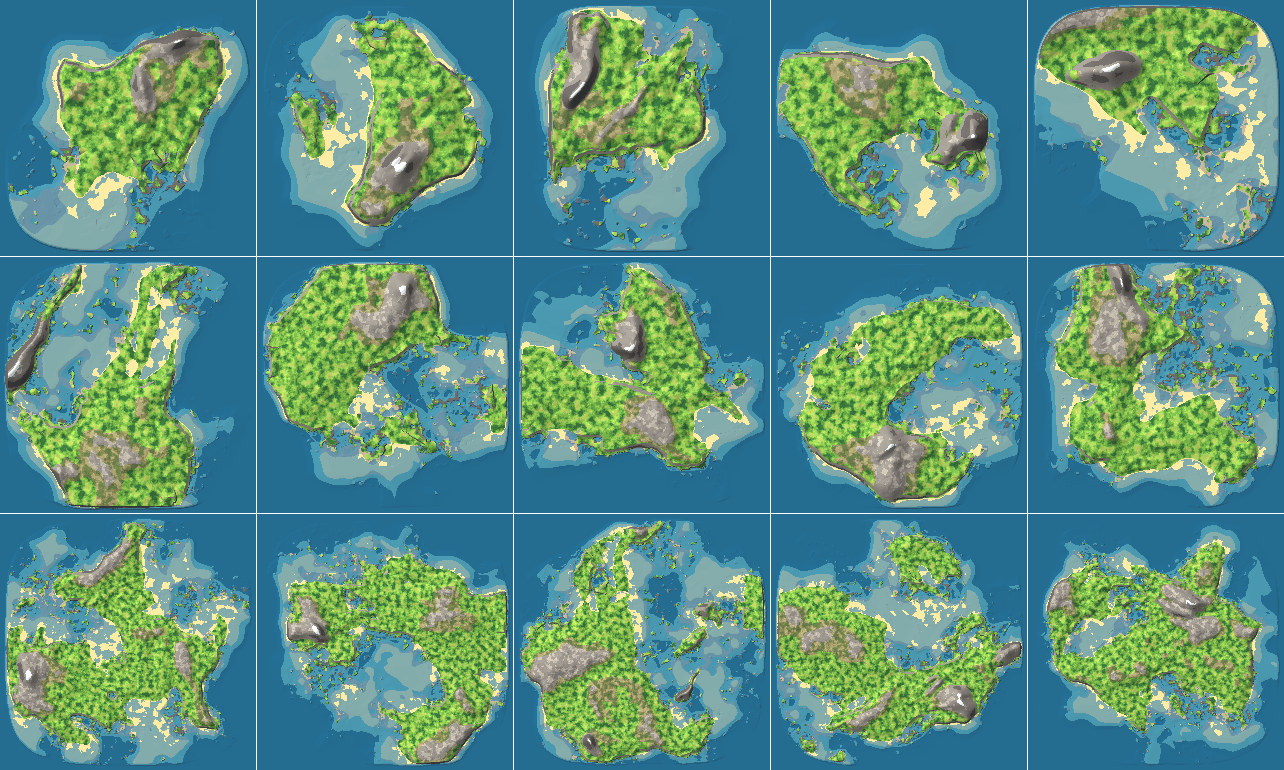
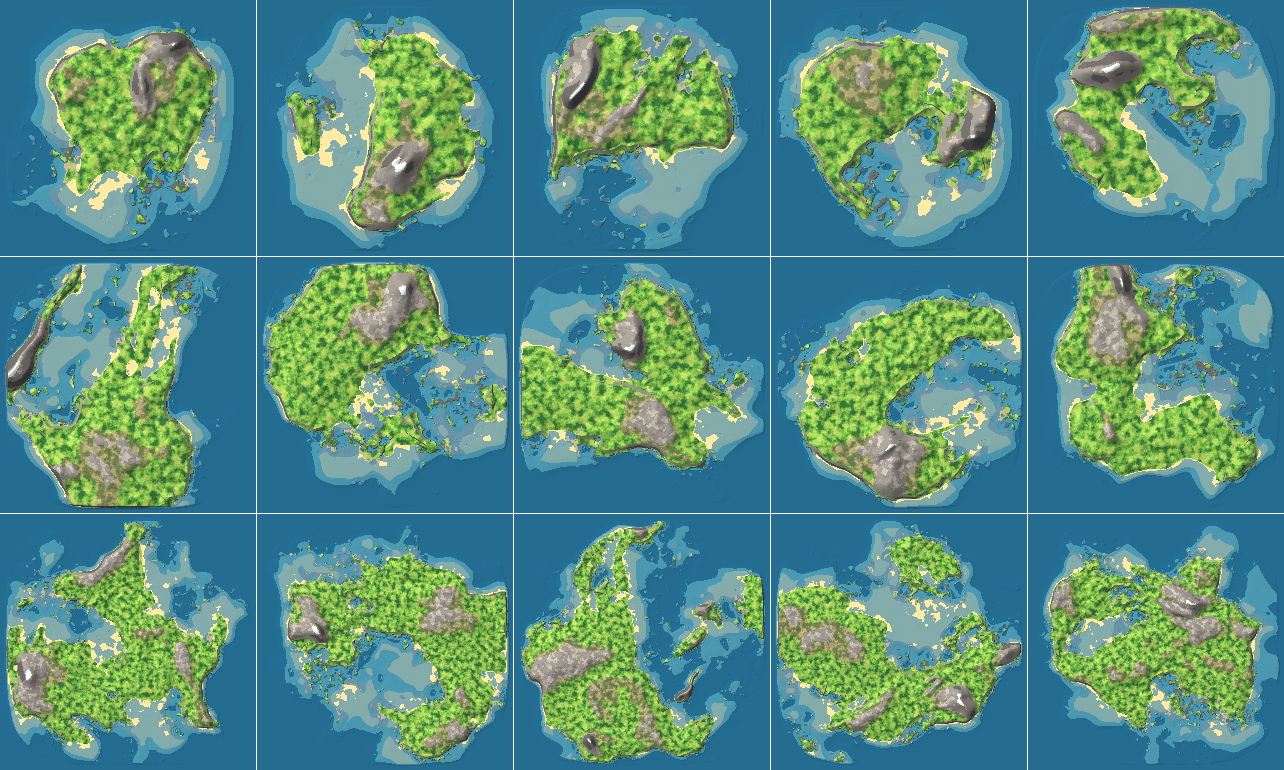
Keep the falloff ring on the map, and give every sea a real bottom
The falloff ring is warped by the same displacement field as the
terrain, whose dominant component is over a kilometre long. On a map
too small for the landmass field to lobe, that displacement does not
bend the ring — it moves it, sometimes off the map, and the coast on
that side ends up drawn by the rim in a line along the frame. The
bend's amplitude and the radius wander's outward allowance now close
on such maps, in the same landmass-cycles terms the land share tapers
in, and the falloff's damping is squared so a field that runs high
cannot out-shout it and camp in the ramp.

The depth mapping also gains a median-anchored floor, mirroring the
lowland one: a minority of seeds run flat just below where the sea
lands in the field, and came out as one endless bright shelf speckled
with sand. Their sea median is now held deep enough that open water
always reads as open water.

diff --git a/src/terrain.rs b/src/terrain.rs
@@ -115,6 +115,18 @@ const SNOW_LINE: f32 = 112.0;
 /// that open water reads as open water rather than as one endless shelf.
 const DEEP_FRACTION: f32 = 0.18;
 
+/// Depth the middle of the sea is guaranteed to reach, in metres — the mirror
+/// of [`LOWLAND_FLOOR`], on the other side of the waterline. A minority of
+/// seeds run flat just *below* where the sea lands in the field, and the deep
+/// anchor cannot save them: it pins one point far down while the whole middle
+/// of the distribution sits centimetres under the surface, so the map comes
+/// out one endless bright shelf speckled with sand, with the falloff's rim
+/// embossed round the edge of it. Set well past the last of the shallow-water
+/// colours, not merely at their edge — a median pinned exactly on the colour
+/// threshold leaves half the sea painted as shallows — so the middle of the
+/// sea always reads as open water.
+const SHALLOWS_FLOOR: f32 = 6.5;
+
 /// Height the middle of the land is guaranteed to reach, in metres. A minority
 /// of seeds put nearly all their land within a metre or two of sea level — the
 /// field happens to run flat just above where the sea lands in it — and the
@@ -959,9 +971,26 @@ impl TerrainGenerator {
         // land usually does reach the falloff: at 0.55 the field put barely a
         // lobe on a 768 m island's outline, and every small map read as the
         // same rounded square.
-        let bend = drift * FEATURE_SCALE * 0.7;
+        // The bend's amplitude shrinks on maps the landmass field cannot
+        // break up — the same regime the land share tapers in, measured the
+        // same way. The warp's dominant component is over a kilometre long,
+        // and on a map that small a displacement of full amplitude is not a
+        // lobe on the ring, it is a translation of the whole ring, off the
+        // edge of the map — and the coast on that side ends up drawn by the
+        // rim in a straight line along the frame. On larger maps the same
+        // displacement is a lobe, and is most of what un-squircles them, so
+        // it fades back in as soon as the map can afford it.
+        let cycles = self.half_extent * 2.0 / CONTINENT_SCALE;
+        let room = smoothstep(1.1, 1.55, cycles);
+        let bend = drift * FEATURE_SCALE * 0.7 * (0.25 + 0.75 * room);
         let reach = 1.0 + 0.7 * self.continent.fbm(n.x * 0.85 - 12.4, n.y * 0.85 + 9.8, 2);
-        let shaped = self.squircle(wx + bend.x, wz + bend.y, 2.2) / reach.clamp(0.72, 1.35);
+        // The clamp is asymmetric: the radius may pull well in, carving deep
+        // bays out of the ring, but only push a little out — pushed further,
+        // the ramp ends up at the rim and the rim ends up drawing the coast.
+        // Like the bend, the outward allowance closes almost entirely on the
+        // one-blob maps.
+        let shaped =
+            self.squircle(wx + bend.x, wz + bend.y, 2.2) / reach.clamp(0.72, 1.0 + 0.15 * room);
 
         // Spread over a wide ramp and pushed down gently. A short, hard falloff
         // drops the ground into the sea too fast, and the slope rule then paints
@@ -973,13 +1002,20 @@ impl TerrainGenerator {
         let edge = smoothstep(0.72, 1.12, shaped);
 
         // The rim, in unwarped coordinates and narrower still, so that whatever
-        // the warp does the very edge of the map is open sea.
+        // the warp does the very edge of the map is open sea. Not wider: the
+        // cells it pushes down land in the quantiles every fit below the
+        // waterline reads, and widening it once flattened the whole interior
+        // sea into a shelf.
         let rim = smoothstep(0.94, 1.0, self.squircle(wx, wz, 4.0));
 
-        (
-            (1.0 - edge) * (1.0 - rim),
-            edge * 0.7 * (1.0 - rim) + rim * 1.4,
-        )
+        // The damp is squared because it is the only part of the falloff
+        // that scales with the field it is fighting: the push is a fixed
+        // number of raw units, and a seed whose field runs high towards an
+        // edge simply out-shouts it, keeping land deep into the ramp. Since
+        // sea level is refitted per seed, land killed in the ramp reappears
+        // in the interior rather than vanishing.
+        let damp = (1.0 - edge) * (1.0 - rim);
+        (damp * damp, edge * 0.7 * (1.0 - rim) + rim * 1.4)
     }
 
     /// Distance from the middle of the map, as a fraction of its half extent,
@@ -1397,8 +1433,15 @@ impl TerrainGenerator {
 struct Calibration {
     /// Raw value that sea level sits at.
     sea_level: f32,
-    /// Metres per raw unit below it.
-    depth_gain: f32,
+    /// Raw distance below sea level that the sea's median sits at — where the
+    /// two depth slopes meet. The mirror of `knee`.
+    sea_knee: f32,
+    /// Metres of depth the sea knee maps to.
+    sea_knee_depth: f32,
+    /// Metres per raw unit above the sea knee, and below it. Equal on any
+    /// seed the floor leaves alone, like the land slopes.
+    depth_shallow: f32,
+    depth_deep: f32,
     /// Raw distance above sea level that the land's median sits at — where the
     /// two land slopes meet.
     knee: f32,
@@ -1449,10 +1492,30 @@ impl Calibration {
                 (natural, slope, slope)
             };
 
+        // The same again below the waterline: the sea's median, and where
+        // the straight slope through the deep anchor would put it. Only a
+        // median that comes out shallower than the floor bends the line.
         let deep = sea_level - quantile(DEEP_FRACTION);
+        let depth_gain = MAX_DEPTH / deep.max(1e-4);
+        let sea_knee = sea_level - quantile((1.0 - land) * 0.5);
+        let natural_depth = depth_gain * sea_knee;
+        let (sea_knee_depth, depth_shallow, depth_deep) =
+            if natural_depth < SHALLOWS_FLOOR && sea_knee > 1e-4 && deep - sea_knee > 1e-4 {
+                (
+                    SHALLOWS_FLOOR,
+                    SHALLOWS_FLOOR / sea_knee,
+                    (MAX_DEPTH - SHALLOWS_FLOOR) / (deep - sea_knee),
+                )
+            } else {
+                (natural_depth, depth_gain, depth_gain)
+            };
+
         Self {
             sea_level,
-            depth_gain: MAX_DEPTH / deep.max(1e-4),
+            sea_knee,
+            sea_knee_depth,
+            depth_shallow,
+            depth_deep,
             knee,
             knee_height,
             slope_low,
@@ -1463,7 +1526,12 @@ impl Calibration {
     fn metres(&self, raw: f32) -> f32 {
         let t = raw - self.sea_level;
         if t <= 0.0 {
-            (t * self.depth_gain).max(-MAX_DEPTH)
+            let depth = if -t <= self.sea_knee {
+                -t * self.depth_shallow
+            } else {
+                self.sea_knee_depth + (-t - self.sea_knee) * self.depth_deep
+            };
+            (-depth).max(-MAX_DEPTH)
         } else if t <= self.knee {
             t * self.slope_low
         } else {
